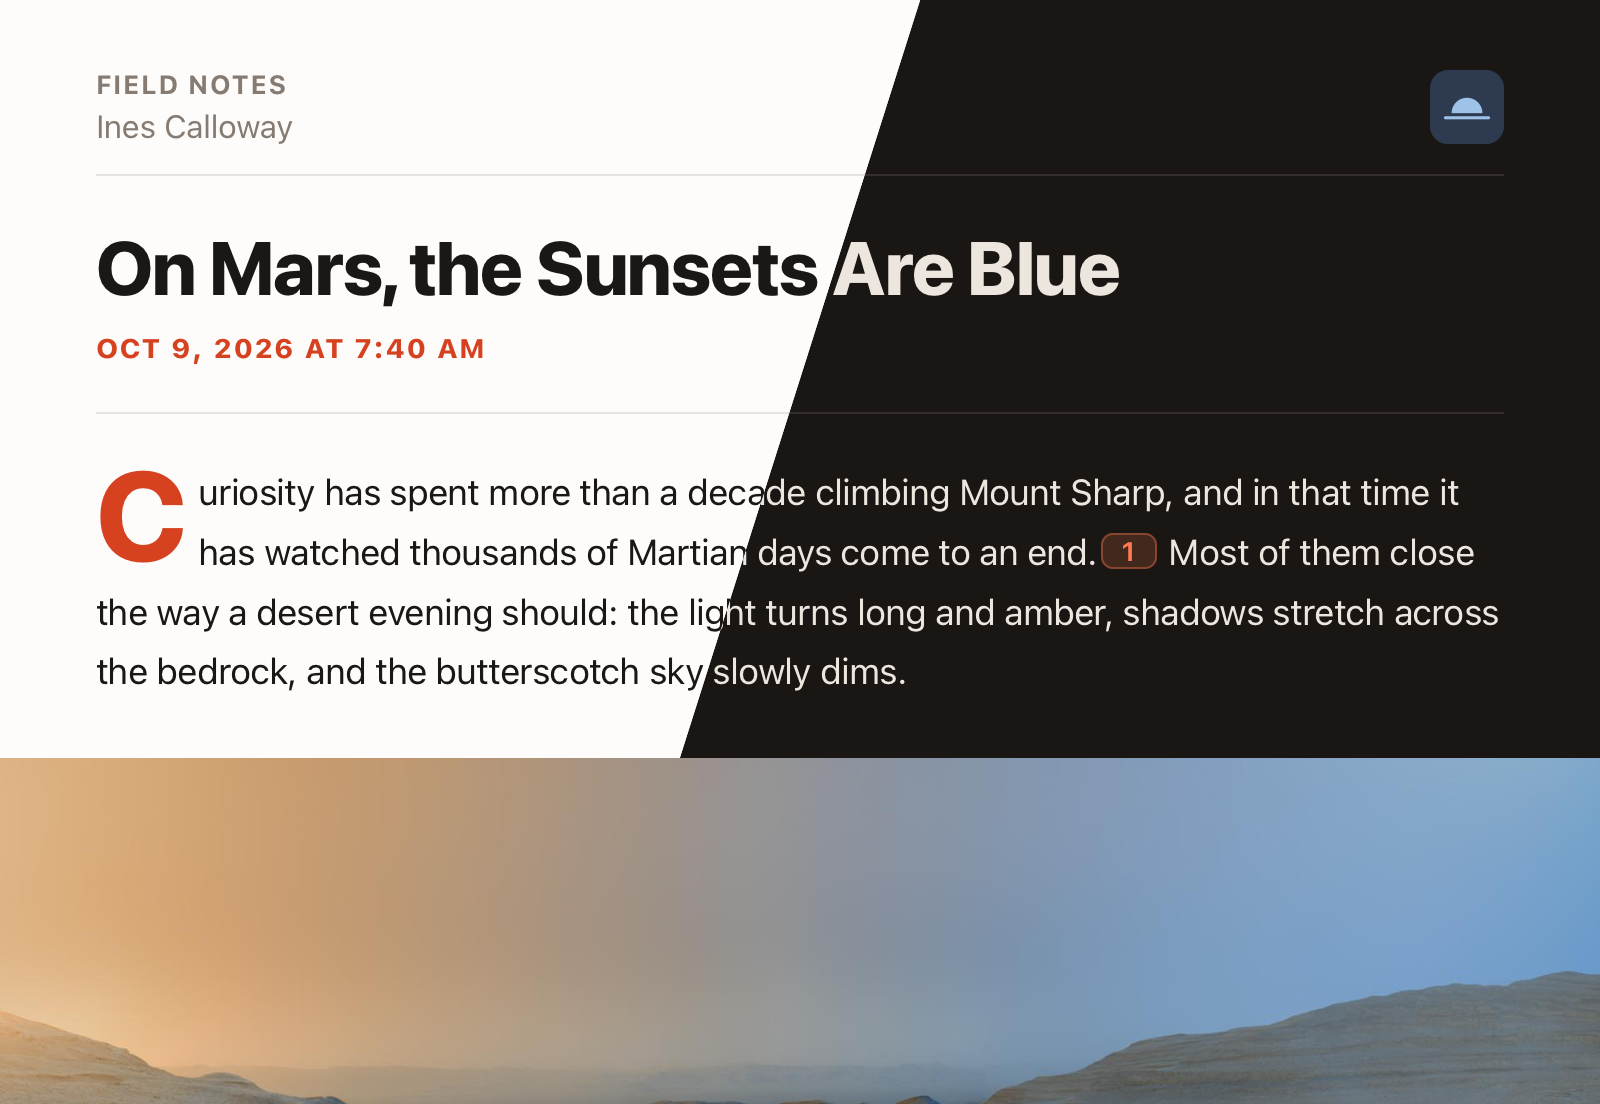
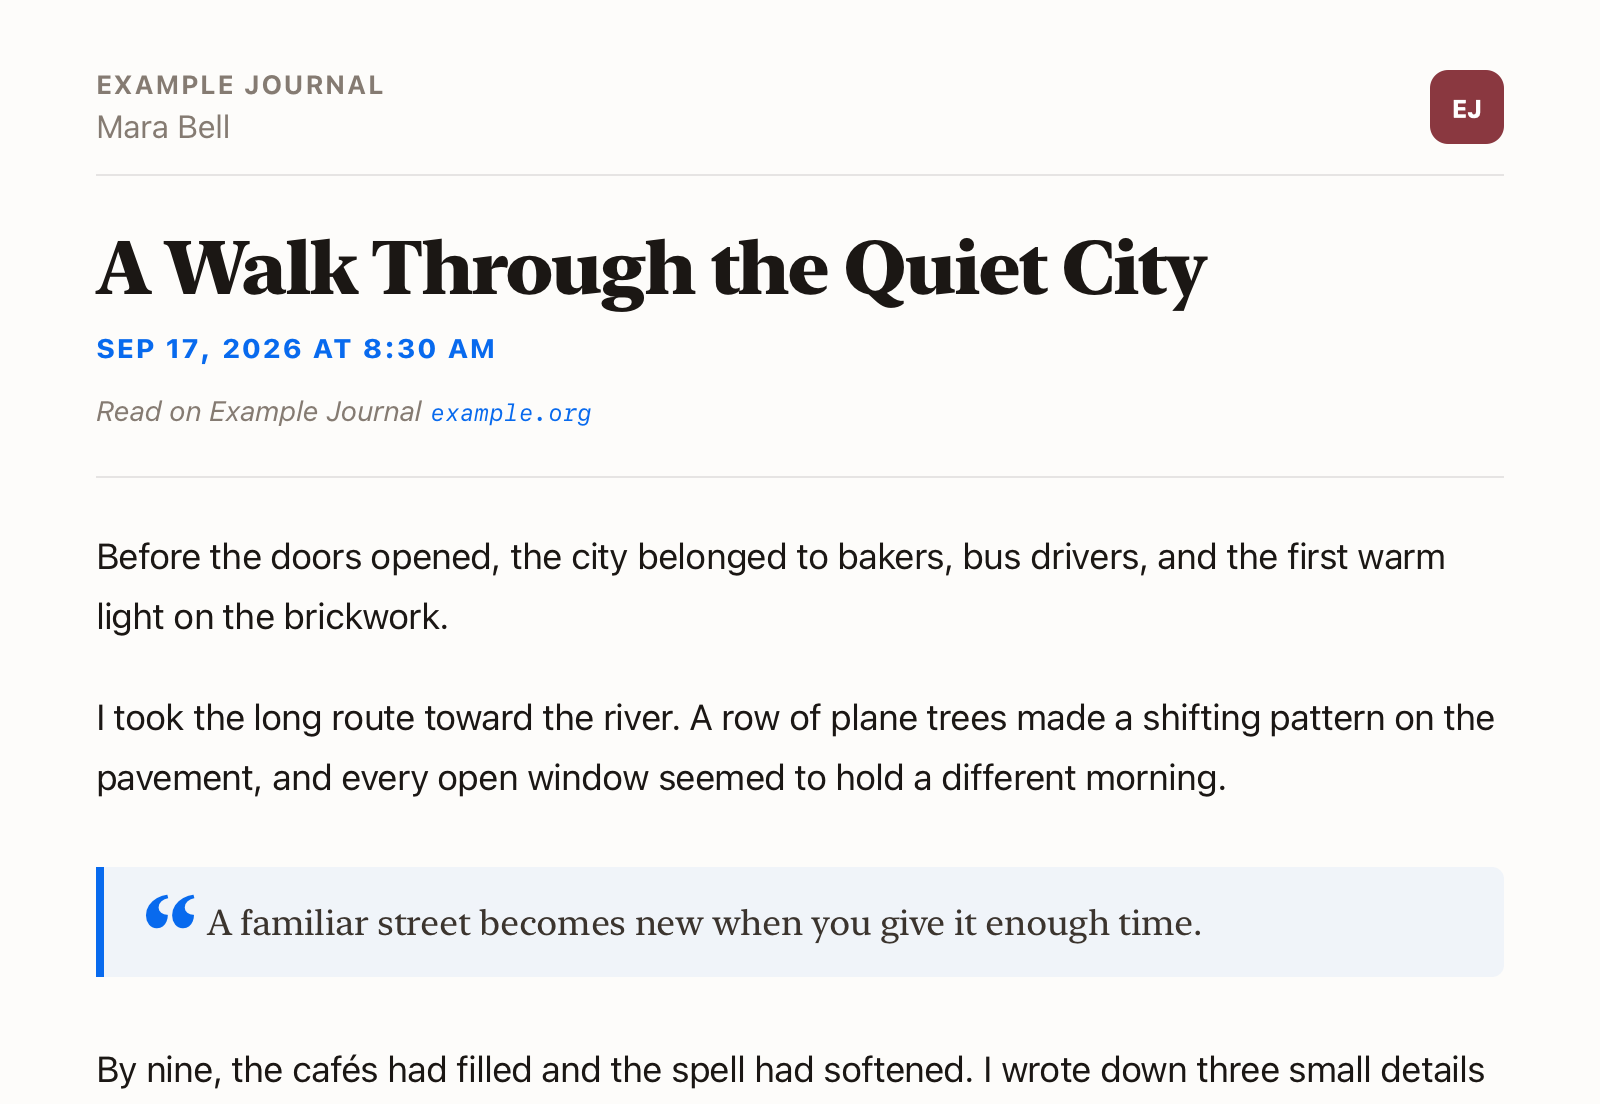
Renaming theme to Cinder so it can be installed alongside Ember instead of replacing it.

diff --git a/Cinder.nnwtheme/stylesheet.css b/Cinder.nnwtheme/stylesheet.css
@@ -1,19 +1,20 @@
 /* =====================================================================
-   Ember — a warm, editorial theme for NetNewsWire
-   by Dave Marquard
+   Cinder: a light, editorial theme for NetNewsWire
+   by Ryan Conway, based on Ember by Dave Marquard
 
    A theme's stylesheet.css fully REPLACES NetNewsWire's default
    stylesheet; only core.css is prepended automatically. So this file is
-   self-contained: it starts from NNW's default scaffolding and layers on
-   Ember's design — Apple system fonts (SF Pro / SF), a NetNewsWire blue
-   accent, oversized headline type, a drop cap, flagged section heads,
-   and prominent pull-quotes. Light only: dark mode is deliberately off.
+   self-contained, starting from NNW's default scaffolding and layering on
+   Cinder's design: Apple system fonts (SF Pro / SF) with New York serif
+   headings and quotations, a NetNewsWire blue accent, oversized headline
+   type, and prominent pull-quotes. Light only: dark mode is deliberately
+   off. The --ember-* names are kept from Ember so its fixes still merge.
    ===================================================================== */
 
 /* ---------- Palette ---------------------------------------------------
    Warm off-white ground, warm-biased ink, and NetNewsWire's own blue
    accent. The --*-color names below are the ones NNW's base rules
-   reference; --ember-* are Ember's own tokens.
+   reference; --ember-* are the theme's own tokens.
 */
 
 :root {

diff --git a/AGENTS.md b/AGENTS.md
@@ -22,29 +22,31 @@ opening a pull request, changing repository topics, or otherwise mutating
 GitHub requires the user's explicit intent. Theme and fixture HTML/JavaScript
 are untrusted executable inputs; browser checks stay loopback-only.
 
-## Ember
+## Cinder
 
-Ember is a **NetNewsWire article theme**. The shipped product is the bundle in
-`Ember.nnwtheme/` — three files:
+Cinder is a **NetNewsWire article theme**, a restyle of
+[Ember](https://github.com/dave-atx/ember-nnw-theme) by Dave Marquard. The shipped
+product is the bundle in `Cinder.nnwtheme/`, three files:
 
 | File | What it is |
 |------|-----------|
-| `Ember.nnwtheme/template.html` | The article scaffold. NNW fills `[[macro]]` placeholders (title, byline, dates, avatar, body). It also contains Ember's inline footnote-format adapter; themes cannot load a bundled `.js` file. |
-| `Ember.nnwtheme/stylesheet.css` | The whole theme. NNW loads its own `core.css` **first**, then this replaces the default stylesheet. |
-| `Ember.nnwtheme/Info.plist` | Theme name, identifier, author, version. |
+| `Cinder.nnwtheme/template.html` | The article scaffold. NNW fills `[[macro]]` placeholders (title, byline, dates, avatar, body). It also contains the inline footnote-format adapter from Ember; themes cannot load a bundled `.js` file. |
+| `Cinder.nnwtheme/stylesheet.css` | The whole theme. NNW loads its own `core.css` **first**, then this replaces the default stylesheet. |
+| `Cinder.nnwtheme/Info.plist` | Theme name, identifier, author, version. |
 
-Everything else is supporting material: `docs/` is the GitHub Pages site
-([ember.marquard.org](https://ember.marquard.org), served from the `docs/` folder on
-`main`); `fixtures/` holds the test articles.
+Everything else is supporting material: `fixtures/` holds the test articles and
+`screenshots/theme-preview.png` is the README image (`npx nnw-theme@2 screenshot
+--fixture article --card --promote`). There is no project site; Ember's `docs/` was
+removed.
 
 The tooling is the `nnw-theme` npm package, run as `npx nnw-theme@2 <command>`.
 The four workflows, the `creating-nnw-themes` skill, and the guidance above this
 section are stubs from
 [netnewswire-theme-template](https://github.com/dave-atx/netnewswire-theme-template).
 **Fix tooling in [nnw-theme](https://github.com/dave-atx/nnw-theme), never here**, and
-keep Ember's own guidance in this section. The skill repeats this file, and
-`pages.yml` skips its deploy because Pages serves `docs/` from a branch; both stay
-only because `check` warns when a stub is missing.
+keep Cinder's own guidance in this section. The skill repeats this file, and
+`pages.yml` publishes only the check preview gallery; both stay only because `check`
+warns when a stub is missing.
 
 ### How NetNewsWire renders a theme (know this before touching CSS)
 
@@ -73,7 +75,7 @@ npx nnw-theme@2 check                  # release gate; finish every change with 
 ```
 
 `check` renders the package's two built-in fixtures across Mac, iPhone, and iPad, and each
-Ember fixture on Mac and iPhone, all in light and dark. It fails on overflow, broken
+Cinder fixture on Mac and iPhone, all in light and dark. It fails on overflow, broken
 images, page errors, and footnotes that don't resolve, stay legible, match each
 other, or open their popover. `fixtures/footnote-providers.toml` pins the note every
 footnote format must open through its `[expect.footnotes]` table, and every footnote
@@ -89,12 +91,47 @@ fixtures are captured from NetNewsWire with `npx nnw-theme@2 capture`.
 - Additional footnote popovers depend on NetNewsWire's **Article JavaScript**
   setting (enabled by default). Keep the adapter inline in `template.html`; `check`
   also renders with theme scripts removed to prove the article still reads well.
-- Ember is light only: there are no dark-mode rules and `color-scheme` is
+- Cinder is light only: there are no dark-mode rules and `color-scheme` is
   `light`, so dark renders must look identical to light. The ground is warm and
   the accent is NetNewsWire's default blue, `#086AEE`.
+- Headings and quotations use `--ember-serif` (New York). There is no drop cap and
+  no accent bar over section headings.
+- The `--ember-*` custom properties, `ember-*` classes and `emberFootnotes` keep
+  Ember's names so its changes merge cleanly. Don't rename them.
 - Commit messages are Conventional Commits; `.github/cliff.toml` turns them into
   the release notes, so the type prefix decides which section a change lands in
   (and `chore(release):` / `ci:` are omitted entirely).
+
+### Keeping in step with Ember
+
+Cinder merges Ember's changes rather than porting them. A fresh clone only has
+`origin`, so add Ember as `upstream` first:
+
+```sh
+git remote add upstream https://github.com/dave-atx/ember-nnw-theme.git
+git config remote.upstream.tagOpt --no-tags
+git fetch upstream '+refs/heads/*:refs/remotes/upstream/*' '+refs/tags/*:refs/upstream-tags/*'
+```
+
+Ember's tags live under `refs/upstream-tags/` so they never mix with Cinder's own
+`v*` tags, which git-cliff uses to find the previous release. Merge with
+`git merge --no-commit upstream/main` (or an Ember tag) and leave the commit to the
+user. When resolving:
+
+- **Bundle path:** Ember's bundle is still `Ember.nnwtheme/`. Git normally follows
+  the rename; if a new upstream file lands in `Ember.nnwtheme/`, move it into
+  `Cinder.nnwtheme/`.
+- **`docs/`:** Cinder has no site. Keep every deletion (`git rm` the files).
+- **`Info.plist`:** keep Cinder's identity and `Version`. Ember's version numbers
+  don't apply here.
+- **`README.md`:** keep Cinder's. If Ember adds a feature worth mentioning, add it
+  under "Kept from Ember".
+- **`stylesheet.css` and `template.html`:** take Ember's layout, image, caption and
+  footnote fixes, but keep Cinder's look where they differ (see Conventions). Drop
+  any new `prefers-color-scheme: dark` rules and anything that restores the drop cap
+  or heading bars.
+
+Finish with `npx nnw-theme@2 check`, and show the user any fixture whose look changed.
 
 ### Releasing
 
@@ -102,23 +139,26 @@ Two version numbers move together, and they are **not** the same number:
 
 | Where | Form | Example |
 |-------|------|---------|
-| Git tag | `vMAJOR.MINOR` | `v2.2` |
-| `Ember.nnwtheme/Info.plist` → `Version` | a plain monotonic **integer**, +1 every release | `8` |
+| Git tag | `vMAJOR.MINOR` | `v1.1` |
+| `Cinder.nnwtheme/Info.plist` → `Version` | a plain monotonic **integer**, +1 every release | `2` |
 
 NetNewsWire compares that integer to decide whether an installed theme is
 out of date, so it must increase on every release regardless of how the tag
-moves. It is *not* derived from the tag.
+moves. It is *not* derived from the tag. Cinder restarted at 1 under its new
+identifier, so Ember's numbers mean nothing here.
 
 ```sh
 npx nnw-theme@2 bump                 # Version +1
-git commit -am 'chore(release): v2.2'
+git commit -am 'chore(release): v1.1'
 git push
 ```
 
-Then run **Actions → Publish theme** on GitHub with the tag `v2.2`, leaving the notes
+Then run **Actions → Publish theme** on GitHub with the tag `v1.1`, leaving the notes
 empty. Publishing is an external action: confirm with the user first. The workflow
 releases the default-branch head after the full check, refuses a reused tag or a
-Version that did not increase, attaches `Ember.nnwtheme.zip`, and writes the notes
-from the commits since the last tag with git-cliff. Install links on the site and in
-the README point at `releases/latest`, and `docs/index.html` reads the current
-release from the GitHub API, so nothing else needs editing.
+Version that did not increase, attaches `Cinder.nnwtheme.zip`, and writes the notes
+from the commits since the last `v*` tag with git-cliff. The README's download link
+points at `releases/latest`, so nothing else needs editing.
+
+The first release has no earlier `v*` tag, so git-cliff would list all of Ember's
+history. Write those notes by hand in the workflow's notes field instead.
